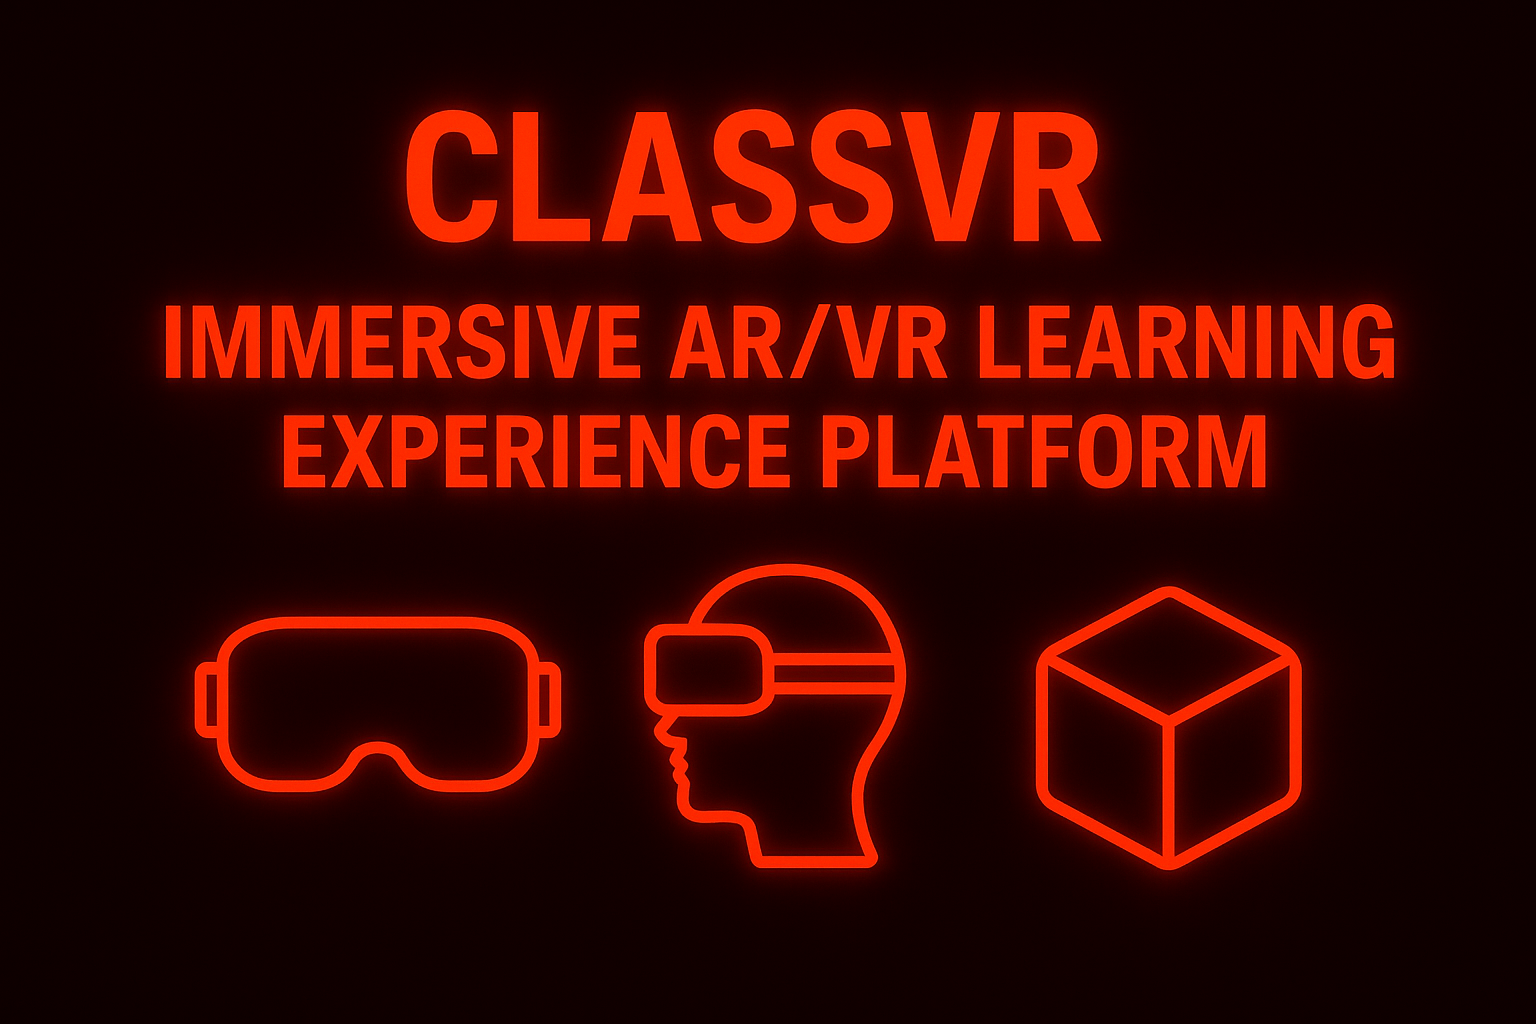
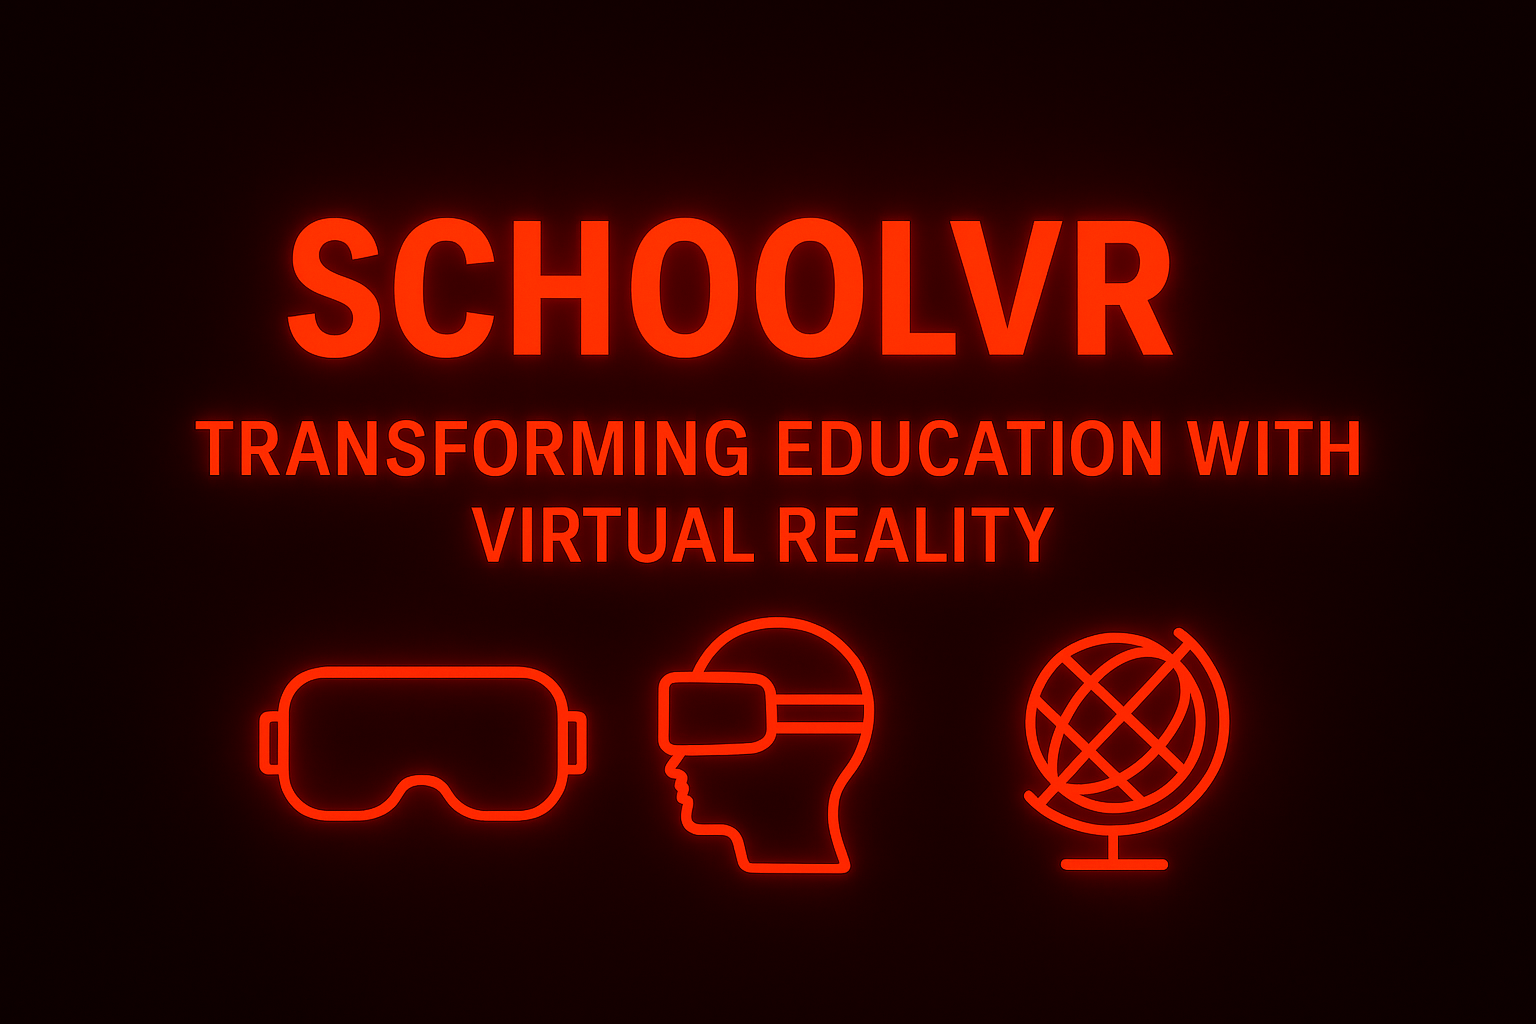
Auto-update

Changed region(s): [[0.0938, 0.0938, 0.9375, 0.875], [0.6562, 0.5625, 0.875, 0.875]]

diff --git a/index.html b/index.html
@@ -183,6 +183,10 @@
     <div class="scroll-icon">
       <i class="fas fa-chevron-down"></i>
     </div>
+    <div id="ai-quote" style="text-align:center; margin-top:40px; font-size:40px; color:#e4e0e0; font-style:italic;">
+    <!-- Quote will appear here -->
+</div>
+
   </section>
 
   <!-- About Section -->
@@ -422,17 +426,12 @@
         <div class="project-number">02</div>
 
         <header class="project-header">
-          <h3 class="project-title">Customer Service Analytics Of Flipkart</h3>
+          <h3 class="project-title">Pizza Sales Analysis Using SQL</h3>
         </header>
 
         <div class="project-body">
           <p class="project-description">
-            This project analyzes Flipkart’s customer service interactions to understand how sentiment, response time,
-            call duration, and issue resolution quality shape overall satisfaction.
-            By evaluating these touchpoints across thousands of support cases, the study uncovers operational
-            inefficiencies and key drivers of customer retention.
-            The findings highlight where support experiences break down and how data-driven improvements can enhance
-            loyalty and trust.
+            This project analyzes a multi-table pizza sales dataset to uncover key business insights across orders, revenue, and product performance. Using structured SQL queries, it identifies the most popular pizzas, top revenue-generating categories, and peak ordering hours. The analysis also highlights customer buying patterns, size-wise demand distribution, and top items by revenue contribution. Advanced queries further explore cumulative revenue growth and category-level performance. These insights help optimize menu strategy, streamline inventory planning, and support data-driven decision-making for boosting sales efficiency.
           </p>
         </div>
 
@@ -459,17 +458,12 @@
         <div class="project-number">03</div>
 
         <header class="project-header">
-          <h3 class="project-title">Customer Service Analytics Of Flipkart</h3>
+          <h3 class="project-title">Personal Expense Dashboard</h3>
         </header>
 
         <div class="project-body">
           <p class="project-description">
-            This project analyzes Flipkart’s customer service interactions to understand how sentiment, response time,
-            call duration, and issue resolution quality shape overall satisfaction.
-            By evaluating these touchpoints across thousands of support cases, the study uncovers operational
-            inefficiencies and key drivers of customer retention.
-            The findings highlight where support experiences break down and how data-driven improvements can enhance
-            loyalty and trust.
+            This project provides a clear, data-driven breakdown of monthly income, spending patterns, and savings trends. Using Excel/Power BI, it categorizes expenses, tracks recurring payments, and highlights areas where overspending occurs. The dashboard visualizes income vs. expenses, spending distribution, and month-over-month changes, helping users understand and control their finances better. It also identifies saving opportunities and creates a transparent view of financial health. This project is designed to help users make smarter budgeting decisions and maintain consistent financial discipline.
           </p>
         </div>
 
@@ -496,17 +490,12 @@
         <div class="project-number">04</div>
 
         <header class="project-header">
-          <h3 class="project-title">Customer Service Analytics Of Flipkart</h3>
+          <h3 class="project-title">Airbnb SQL Analysis</h3>
         </header>
 
         <div class="project-body">
           <p class="project-description">
-            This project analyzes Flipkart’s customer service interactions to understand how sentiment, response time,
-            call duration, and issue resolution quality shape overall satisfaction.
-            By evaluating these touchpoints across thousands of support cases, the study uncovers operational
-            inefficiencies and key drivers of customer retention.
-            The findings highlight where support experiences break down and how data-driven improvements can enhance
-            loyalty and trust.
+            This project explores Airbnb’s booking dataset using SQL to uncover insights about hosts, guests, pricing patterns, and property performance. It analyzes booking frequency, location-based demand, host activity levels, and factors influencing listing popularity. Using structured SQL queries, the study identifies high-performing hosts, seasonal trends, and revenue drivers across different property types. It also highlights guest behavior patterns, such as preferred room types and stay durations. These insights help understand market dynamics and guide data-driven decisions for improving listing performance, pricing strategy, and overall host competitiveness.
           </p>
         </div>
 
@@ -533,17 +522,12 @@
         <div class="project-number">05</div>
 
         <header class="project-header">
-          <h3 class="project-title">Customer Service Analytics Of Flipkart</h3>
+          <h3 class="project-title">IPL Performance Analysis</h3>
         </header>
 
         <div class="project-body">
           <p class="project-description">
-            This project analyzes Flipkart’s customer service interactions to understand how sentiment, response time,
-            call duration, and issue resolution quality shape overall satisfaction.
-            By evaluating these touchpoints across thousands of support cases, the study uncovers operational
-            inefficiencies and key drivers of customer retention.
-            The findings highlight where support experiences break down and how data-driven improvements can enhance
-            loyalty and trust.
+          This project examines IPL match data to uncover performance trends across teams, players, and seasons. It analyzes batting and bowling metrics, strike rates, economy rates, and match-winning contributions to identify top performers. The study highlights team strengths, player consistency, and key factors that influence match outcomes. Using data-driven visualizations, it reveals patterns such as powerplay performance, death-over efficiency, and impact players. The analysis helps understand how strategies, squad balance, and player form shape overall team success across IPL seasons.
           </p>
         </div>
 
@@ -570,17 +554,12 @@
         <div class="project-number">06</div>
 
         <header class="project-header">
-          <h3 class="project-title">Customer Service Analytics Of Flipkart</h3>
+          <h3 class="project-title">Madhav E-Commerce Sales Dashboard</h3>
         </header>
 
         <div class="project-body">
           <p class="project-description">
-            This project analyzes Flipkart’s customer service interactions to understand how sentiment, response time,
-            call duration, and issue resolution quality shape overall satisfaction.
-            By evaluating these touchpoints across thousands of support cases, the study uncovers operational
-            inefficiencies and key drivers of customer retention.
-            The findings highlight where support experiences break down and how data-driven improvements can enhance
-            loyalty and trust.
+           This project provides a detailed analysis of sales performance across products, customers, and regions for an e-commerce business. It visualizes key metrics such as total revenue, profit trends, order distribution, and top-selling product categories. The dashboard highlights customer purchase behavior, seasonal demand patterns, and factors influencing sales growth. It also identifies underperforming segments and opportunities for optimization in pricing, product mix, and marketing. With clean and interactive visuals, the analysis helps businesses make informed decisions to boost overall sales efficiency and profitability.
           </p>
         </div>
 
@@ -607,17 +586,12 @@
         <div class="project-number">07</div>
 
         <header class="project-header">
-          <h3 class="project-title">Customer Service Analytics Of Flipkart</h3>
+          <h3 class="project-title">VISA – Customer Insights to Maximize Transaction Value</h3>
         </header>
 
         <div class="project-body">
           <p class="project-description">
-            This project analyzes Flipkart’s customer service interactions to understand how sentiment, response time,
-            call duration, and issue resolution quality shape overall satisfaction.
-            By evaluating these touchpoints across thousands of support cases, the study uncovers operational
-            inefficiencies and key drivers of customer retention.
-            The findings highlight where support experiences break down and how data-driven improvements can enhance
-            loyalty and trust.
+            This project analyzes VISA’s transaction and customer behavior data to uncover patterns that influence spending, frequency, and overall transaction value. Using analytical dashboards, it highlights key customer segments, high-value users, and transactional trends across categories and time periods. The study identifies factors that drive higher card usage, such as reward optimization, spending categories, and seasonal spikes. It also uncovers risk indicators, unusual patterns, and areas where customer retention can be improved. The insights help financial institutions enhance user engagement, strengthen loyalty, and maximize revenue through data-driven decisions.
           </p>
         </div>
 
@@ -644,17 +618,12 @@
         <div class="project-number">08</div>
 
         <header class="project-header">
-          <h3 class="project-title">Customer Service Analytics Of Flipkart</h3>
+          <h3 class="project-title">Tableau Dashboard for Swiggy</h3>
         </header>
 
         <div class="project-body">
           <p class="project-description">
-            This project analyzes Flipkart’s customer service interactions to understand how sentiment, response time,
-            call duration, and issue resolution quality shape overall satisfaction.
-            By evaluating these touchpoints across thousands of support cases, the study uncovers operational
-            inefficiencies and key drivers of customer retention.
-            The findings highlight where support experiences break down and how data-driven improvements can enhance
-            loyalty and trust.
+            This project visualizes Swiggy’s food delivery operations to uncover trends in orders, customer behavior, and restaurant performance. Using Tableau, it highlights key metrics such as total orders, revenue flow, delivery times, and city-wise demand. The dashboard identifies top-performing restaurants, popular cuisines, peak ordering hours, and customer spending patterns. It also tracks operational efficiency by analyzing delays, order cancellations, and delivery partner performance. These insights help understand business bottlenecks, optimize delivery operations, and improve overall customer satisfaction through data-driven decisions.
           </p>
         </div>
 
@@ -682,17 +651,12 @@
         <div class="project-number">09</div>
 
         <header class="project-header">
-          <h3 class="project-title">Customer Service Analytics Of Flipkart</h3>
+          <h3 class="project-title">SchoolVR – Immersive Virtual Reality Education Platform</h3>
         </header>
 
         <div class="project-body">
           <p class="project-description">
-            This project analyzes Flipkart’s customer service interactions to understand how sentiment, response time,
-            call duration, and issue resolution quality shape overall satisfaction.
-            By evaluating these touchpoints across thousands of support cases, the study uncovers operational
-            inefficiencies and key drivers of customer retention.
-            The findings highlight where support experiences break down and how data-driven improvements can enhance
-            loyalty and trust.
+            SchoolVR is a next-generation learning platform that brings immersive VR classrooms to schools, enabling students to explore concepts through interactive 3D experiences. This project demonstrates how VR can enhance understanding of science, history, and real-world environments by placing learners inside virtual simulations. The platform includes subject-wise VR modules, intuitive controls, and guided learning paths designed for students of all ages. It also provides analytics for teachers to track engagement, topic mastery, and student progress. By combining immersive visuals with hands-on interaction, SchoolVR transforms traditional education into an engaging, memorable, and future-ready learning experience.
           </p>
         </div>
 
@@ -700,12 +664,10 @@
         <div class="project-footer">
           <a class="btn btn-outline project-report"
             data-report="https://github.com/TiwariYogi2001/Data-analysis-dashboard">
-            Full Report
+            Visit
           </a>
 
-          <a class="btn btn-primary project-dashboard" data-dashboard="Flipkart Dashboard Project 01.jpg">
-            View Dashboard
-          </a>
+          
         </div>
       </div>
     </div>
@@ -720,92 +682,59 @@
         <div class="project-number">10</div>
 
         <header class="project-header">
-          <h3 class="project-title">Customer Service Analytics Of Flipkart</h3>
+          <h3 class="project-title">Callbreak Multiplayer Card Game</h3>
         </header>
 
         <div class="project-body">
           <p class="project-description">
-            This project analyzes Flipkart’s customer service interactions to understand how sentiment, response time,
-            call duration, and issue resolution quality shape overall satisfaction.
-            By evaluating these touchpoints across thousands of support cases, the study uncovers operational
-            inefficiencies and key drivers of customer retention.
-            The findings highlight where support experiences break down and how data-driven improvements can enhance
-            loyalty and trust.
+           This project showcases a real-time multiplayer version of the popular strategy card game Callbreak. Built using Unity and C#, it features online matchmaking, smooth gameplay mechanics, and intelligent bot support. The game includes player turn management, scoring rules, bidding logic, and fair card distribution to ensure a competitive experience. It also integrates multiplayer networking for seamless communication between players. Designed with clean UI and interactive animations, the project demonstrates strong game development, logic-building, and real-time multiplayer implementation skills.
           </p>
         </div>
 
         <!-- Updated buttons with dynamic functionality -->
         <div class="project-footer">
           <a class="btn btn-outline project-report"
-            data-report="https://github.com/TiwariYogi2001/Data-analysis-dashboard">
-            Full Report
-          </a>
-
-          <a class="btn btn-primary project-dashboard" data-dashboard="Flipkart Dashboard Project 01.jpg">
-            View Dashboard
+            data-report="https://www.mobzway.com/">
+            Visit
           </a>
         </div>
       </div>
     </div>
-    
+
   </section>
 
   <!-- ========== Certificates Grid (vertical card) ========== -->
   <section id="achievements" class="achievements-section">
     <div class="container">
-      <h2 class="section-title">Certificates & Achievements</h2>
+      <h2 class="section-title">Achievements</h2>
 
       <div class="cert-grid">
         <!-- Certificate card 1 -->
         <article class="cert-card">
-          <button class="cert-thumb" aria-label="Open certificate - SQL MySQL" data-large="SQL Udemy Certificate.jpg">
-            <img src="SQL Udemy Certificate.jpg" alt="SQL MySQL Certificate thumbnail" loading="lazy">
+          <button class="cert-thumb" aria-label="Data Analyst Top fellow" data-large="NextLeap Top fellow.png">
+            <img src="Next leap Top fellow.png" alt="Data Analyst Top fellow" loading="lazy">
           </button>
-          <h3 class="cert-name">SQL - MySQL for Data Analytics</h3>
-          <p class="cert-org">Udemy • Completed 2024</p>
+          <h3 class="cert-name">Data Analyst Top fellow</h3>
+          <p class="cert-org">NextLeap</p>
           <div class="cert-actions">
             <button class="btn view-cert" type="button" aria-haspopup="dialog">View</button>
           </div>
         </article>
 
-        <!-- Certificate card 2 -->
+        <!-- Certificate card 1 -->
         <article class="cert-card">
-          <button class="cert-thumb" aria-label="Open certificate - Data Analytics Fellowship"
-            data-large="SQL Udemy Certificate.jpg">
-            <img src="SQL Udemy Certificate.jpg" alt="Data Analytics Fellowship certificate thumbnail" loading="lazy">
+          <button class="cert-thumb" aria-label="Data Analyst Top fellow" data-large="Reaserch Paper.png">
+            <img src="Research Paper.png" alt="Data Analyst Top fellow" loading="lazy">
           </button>
-          <h3 class="cert-name">Data Analytics Fellowship</h3>
-          <p class="cert-org">NextLeap • 2025</p>
+          <h3 class="cert-name">Conference Paper On Composite Material Analysis</h3>
+          <p class="cert-org">Research Gate</p>
           <div class="cert-actions">
-            <button class="btn view-cert" type="button" aria-haspopup="dialog">View</button>
+            <button class="btn view-cert" type="button"
+              onclick="event.stopPropagation(); window.open('https://www.researchgate.net/publication/365248816_Comparative_Study_of_the_Compressive_Strength_of_Different_Composites', '_blank')">
+              View
+            </button>
           </div>
         </article>
-        <!-- Certificate card 2 -->
-        <article class="cert-card">
-          <button class="cert-thumb" aria-label="Open certificate - Data Analytics Fellowship"
-            data-large="SQL Udemy Certificate.jpg">
-            <img src="SQL Udemy Certificate.jpg" alt="Data Analytics Fellowship certificate thumbnail" loading="lazy">
-          </button>
-          <h3 class="cert-name">Data Analytics Fellowship</h3>
-          <p class="cert-org">NextLeap • 2025</p>
-          <div class="cert-actions">
-            <button class="btn view-cert" type="button" aria-haspopup="dialog">View</button>
-          </div>
-        </article>
-
-        <!-- Certificate card 2 -->
-        <article class="cert-card">
-          <button class="cert-thumb" aria-label="Open certificate - Data Analytics Fellowship"
-            data-large="SQL Udemy Certificate.jpg">
-            <img src="SQL Udemy Certificate.jpg" alt="Data Analytics Fellowship certificate thumbnail" loading="lazy">
-          </button>
-          <h3 class="cert-name">Data Analytics Fellowship</h3>
-          <p class="cert-org">NextLeap • 2025</p>
-          <div class="cert-actions">
-            <button class="btn view-cert" type="button" aria-haspopup="dialog">View</button>
-          </div>
-        </article>
-
 
         <!-- Add more cert-card blocks here (copy/paste and change image/text) -->
       </div>

diff --git a/script.js b/script.js
@@ -577,6 +577,19 @@ document.addEventListener('DOMContentLoaded', () => {
     });
 });
 
+async function getQuote() {
+    try {
+        let res = await fetch("https://api.quotable.io/random");
+        let data = await res.json();
+        document.getElementById("ai-quote").innerHTML = `“${data.content}”`;
+    } catch (error) {
+        document.getElementById("ai-quote").innerHTML = 
+        `“Strength rises in silence—keep moving.”`;
+    }
+}
+
+window.onload = getQuote;
+
 // Add typing effect for achievement cards on view
 const achievementCards = document.querySelectorAll('.achievement-card');
 achievementCards.forEach((card, index) => {

diff --git a/style.css b/style.css
@@ -1488,7 +1488,7 @@ section {
 }
 
 .achievements-section .container {
-    max-width: 1200px;
+    max-width: 1400px;
     margin: 0 auto;
 }
 
@@ -1502,7 +1502,7 @@ section {
 /* === Grid: 3 columns desktop, 2 tablet, 1 mobile === */
 .cert-grid {
     display: grid;
-    grid-template-columns: repeat(3, 1fr);
+    grid-template-columns: repeat(2, 1fr);
     /* EXACT 3 per row on desktop */
     gap: 28px;
     /* spacing between cards */
